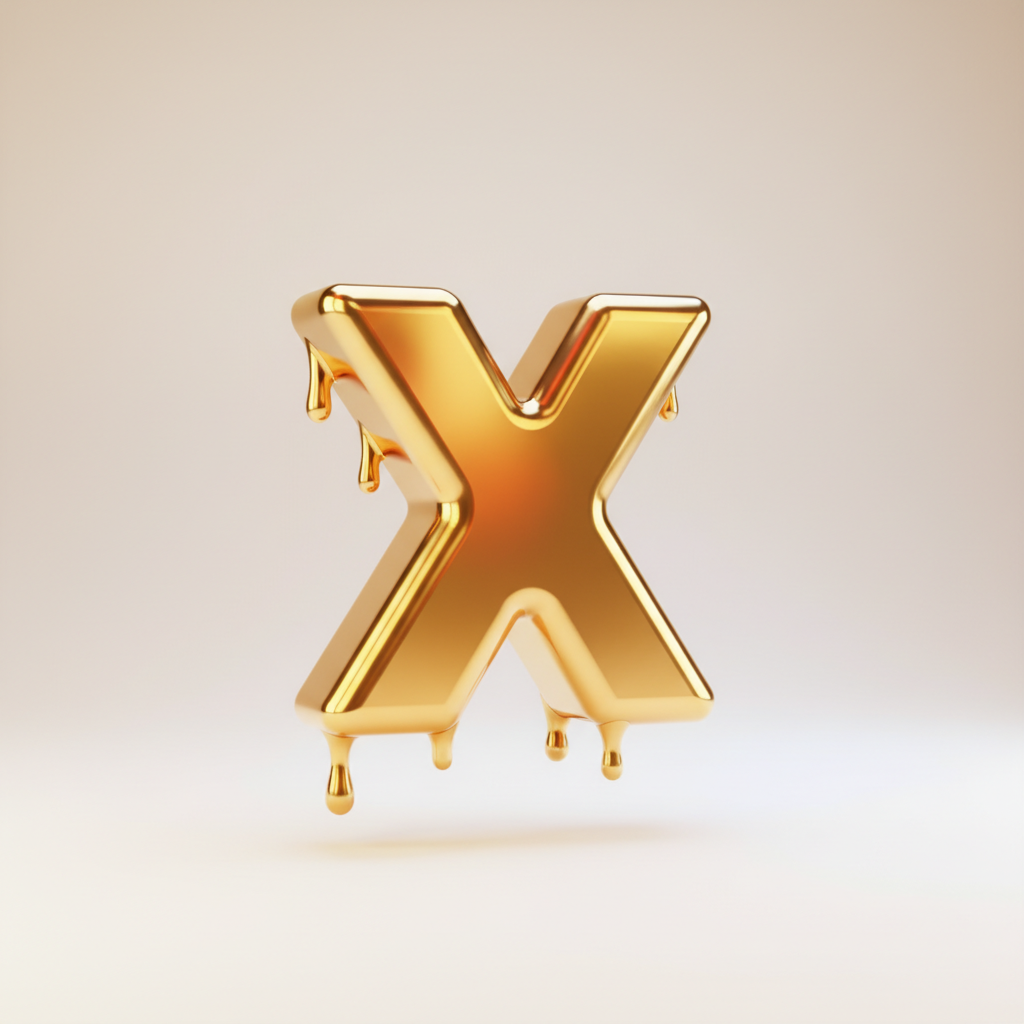
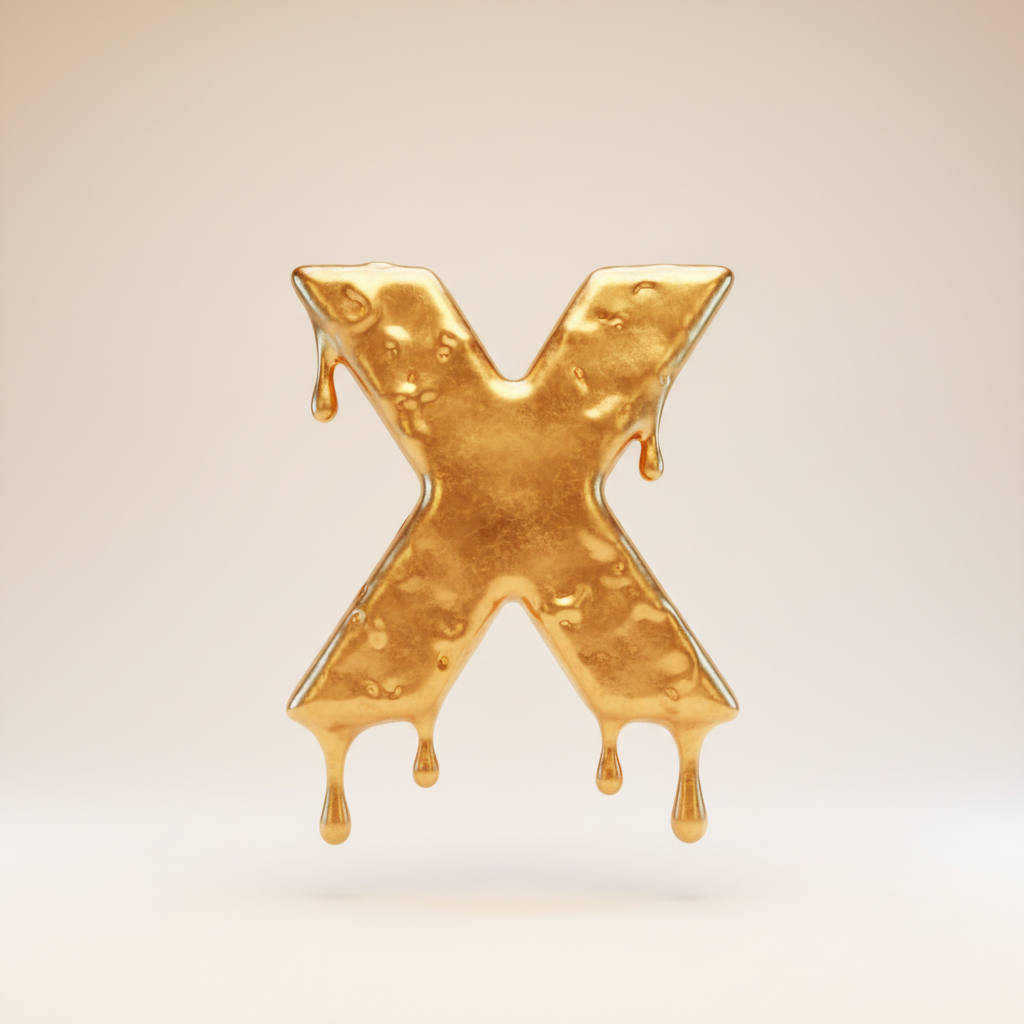
Refine liquid-gold + clean README placeholders
liquid-gold v3: rebalanced from hyper-glossy mirror toward hand-forged
artisan + still viscous. Now has visible hammer marks AND molten flow
drips falling from the bottom edges. Combines "fresh-poured molten gold"
with "hand-beaten goldsmith texture" — neither plastic-mirror nor
flat-matte.

README cleanup: removed all empty <td></td> placeholder cells across
the Material gallery tables (Chrome, Pearl, Glass, Fabric, Natural,
Pigment & Heritage, Special). Tables now render cleanly without dead
cells at row ends.

Changed region(s): [[0.2812, 0.25, 0.7188, 0.8438]]

diff --git a/README.md b/README.md
@@ -68,7 +68,6 @@ All 33 materials, each rendered on the letter `x` for a like-for-like comparison
     <td align="center"><img src="examples/chrome-led-knurled.png" width="140"/><br/><sub>⭐ <code>chrome-led-knurled</code></sub></td>
     <td align="center"><img src="examples/chrome-led-brushed.png" width="140"/><br/><sub>⭐ <code>chrome-led-brushed</code></sub></td>
     <td align="center"><img src="examples/chrome-led-screws.png" width="140"/><br/><sub>⭐ <code>chrome-led-screws</code></sub></td>
-    <td></td>
   </tr>
 </table>
 
@@ -83,7 +82,6 @@ All 33 materials, each rendered on the letter `x` for a like-for-like comparison
   </tr>
   <tr>
     <td align="center"><img src="examples/iridescent-fur.png" width="140"/><br/><sub>⭐ <code>iridescent-fur</code></sub></td>
-    <td></td><td></td><td></td>
   </tr>
 </table>
 
@@ -95,7 +93,6 @@ Middle East-coded pigment blocks. `lapis-pigment` is brand-color anchored (Botim
   <tr>
     <td align="center" width="160"><img src="examples/lapis-pigment.png" width="140"/><br/><sub>⭐ <code>lapis-pigment</code><br/>Persian ultramarine + gold pyrite</sub></td>
     <td align="center" width="160"><img src="examples/spice-pigment.png" width="140"/><br/><sub>⭐ <code>spice-pigment</code><br/>saffron / sumac / paprika</sub></td>
-    <td></td><td></td>
   </tr>
 </table>
 
@@ -123,7 +120,6 @@ Middle East-coded pigment blocks. `lapis-pigment` is brand-color anchored (Botim
     <td align="center" width="160"><img src="examples/knit-wool.png" width="140"/><br/><sub>⭐ <code>knit-wool</code></sub></td>
     <td align="center" width="160"><img src="examples/shaggy-fur.png" width="140"/><br/><sub>⭐ <code>shaggy-fur</code></sub></td>
     <td align="center" width="160"><img src="examples/plush.png" width="140"/><br/><sub><code>plush</code></sub></td>
-    <td></td>
   </tr>
 </table>
 
@@ -133,7 +129,6 @@ Middle East-coded pigment blocks. `lapis-pigment` is brand-color anchored (Botim
   <tr>
     <td align="center" width="160"><img src="examples/clay.png" width="140"/><br/><sub>⭐ <code>clay</code></sub></td>
     <td align="center" width="160"><img src="examples/moss-grass.png" width="140"/><br/><sub>⭐ <code>moss-grass</code></sub></td>
-    <td></td><td></td>
   </tr>
 </table>
 
@@ -143,7 +138,6 @@ Middle East-coded pigment blocks. `lapis-pigment` is brand-color anchored (Botim
   <tr>
     <td align="center" width="160"><img src="examples/obsidian.png" width="140"/><br/><sub><code>obsidian</code></sub></td>
     <td align="center" width="160"><img src="examples/ascii-art.png" width="140"/><br/><sub><code>ascii-art</code></sub></td>
-    <td></td><td></td>
   </tr>
 </table>
 